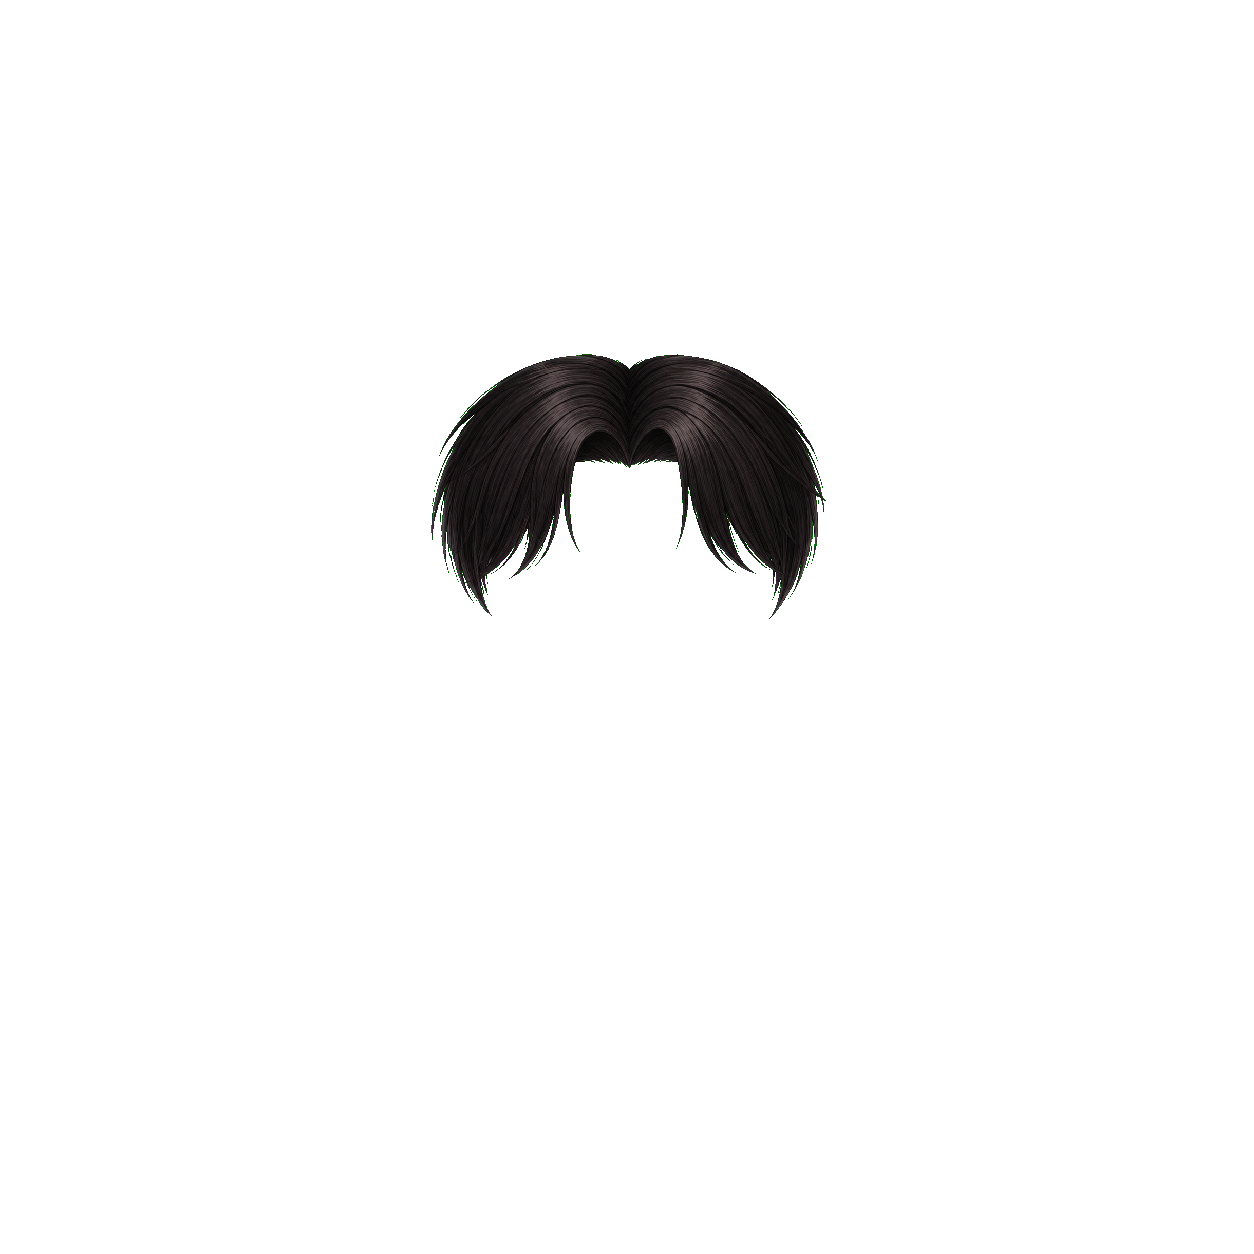
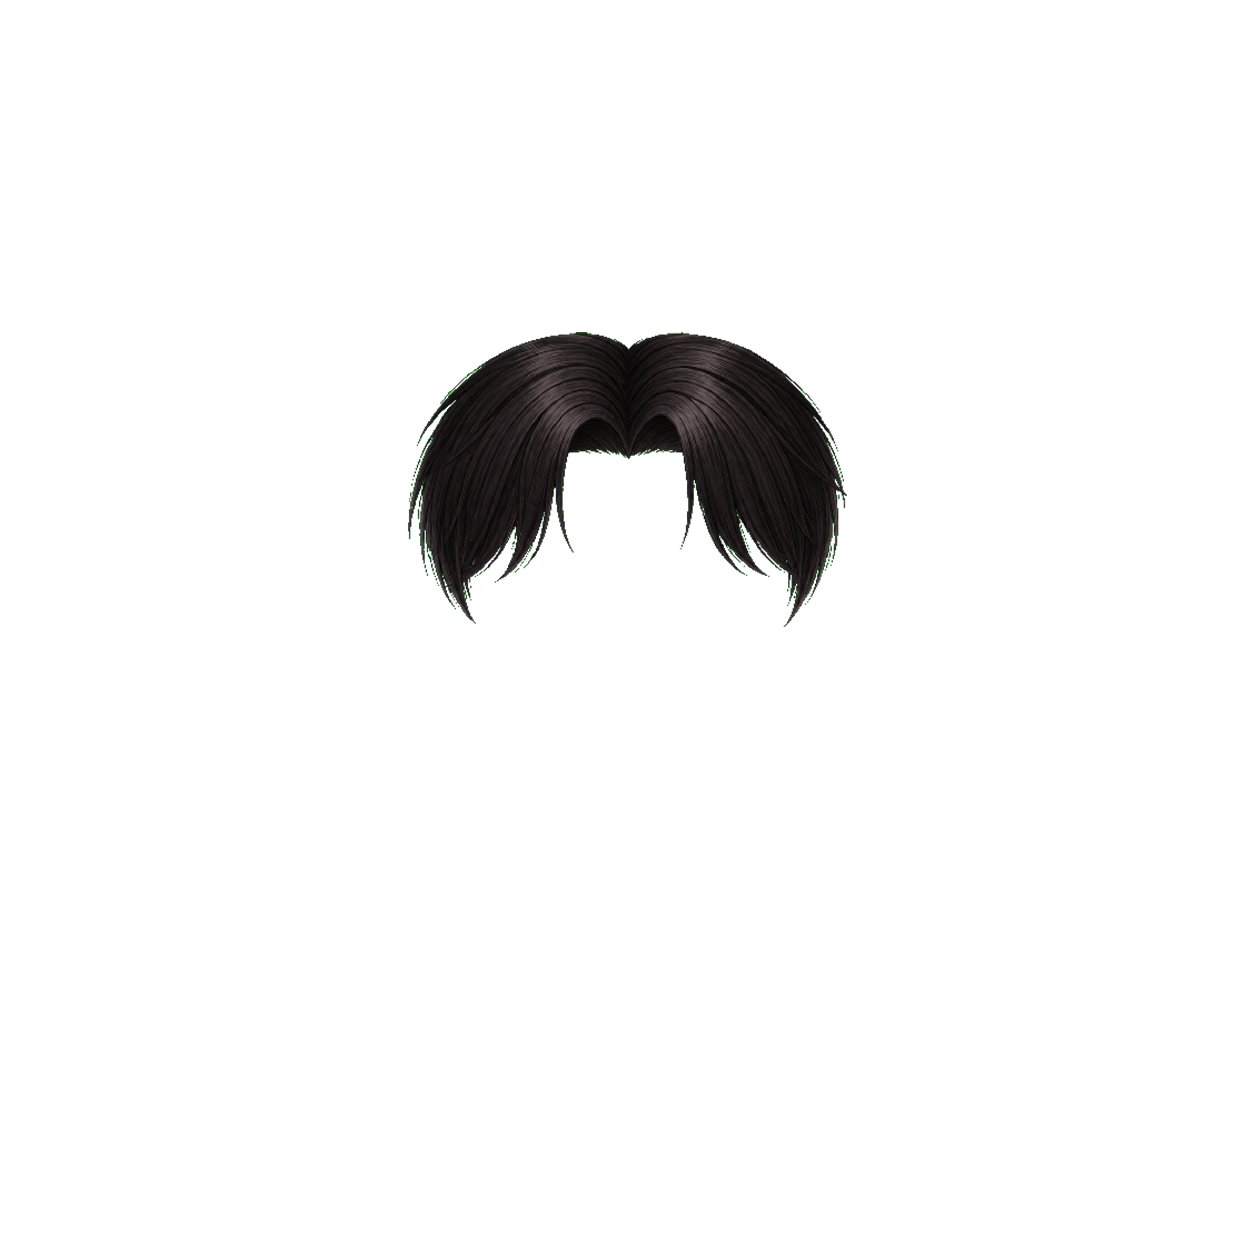
Sync famous portrait lab assets

Changed region(s): [[0.311, 0.2488, 0.6842, 0.4976]]

diff --git a/frontend/tools/famous-portrait-lab.js b/frontend/tools/famous-portrait-lab.js
@@ -1,59 +1,60 @@
 (function () {
   const layerBase = '../assets/art/famous-person/layers/';
+  const sharedLayout = window.FamousPortraitLayout || {};
   const defaultConfig = {
-    version: 2,
+    version: sharedLayout.version || 2,
     note: 'famous portrait v2 user-cut layer transform',
-    coordinateSize: 512,
-    global: { scale: 1, x: 0, y: 0 },
-    order: ['outfitBack', 'head', 'hairBase', 'bangs', 'outfitFront'],
+    coordinateSize: sharedLayout.coordinateSize || 512,
+    global: { scale: 1, x: 0, y: 0, ...(sharedLayout.global || {}) },
+    order: [...(sharedLayout.order || ['outfitBack', 'head', 'hairBase', 'bangs', 'outfitFront'])],
     layers: {
       hairBase: {
         label: '发型底层',
-        file: 'fp-layer-v2-art01-hairBase-bound-topknot-filled-01.png',
+        file: sharedLayout.layers?.hairBase?.file || 'fp-layer-v2-art01-hairBase-bound-topknot-filled-01.png',
         options: [
           { label: '束发底层', file: 'fp-layer-v2-art01-hairBase-bound-topknot-filled-01.png' },
         ],
-        scale: 0.19,
-        x: 135,
-        y: 20,
+        scale: sharedLayout.layers?.hairBase?.scale ?? 0.19,
+        x: sharedLayout.layers?.hairBase?.x ?? 135,
+        y: sharedLayout.layers?.hairBase?.y ?? 20,
         visible: true,
       },
       bangs: {
         label: '刘海',
-        file: 'fp-layer-v2-art01-bangs-bound-topknot-swept-01.png',
+        file: sharedLayout.layers?.bangs?.file || 'fp-layer-v2-art01-bangs-bound-topknot-swept-01.png',
         options: [
           { label: '原始刘海', file: 'fp-layer-v2-art01-bangs-bound-topknot-01.png' },
           { label: '短刘海', file: 'fp-layer-v2-art01-bangs-bound-topknot-short-01.png' },
           { label: '分缝刘海', file: 'fp-layer-v2-art01-bangs-bound-topknot-parted-01.png' },
           { label: '侧扫刘海', file: 'fp-layer-v2-art01-bangs-bound-topknot-swept-01.png' },
         ],
-        scale: 0.38,
-        x: 15,
-        y: -40,
+        scale: sharedLayout.layers?.bangs?.scale ?? 0.38,
+        x: sharedLayout.layers?.bangs?.x ?? 15,
+        y: sharedLayout.layers?.bangs?.y ?? -40,
         visible: true,
       },
       outfitBack: {
         label: '后层衣服',
-        file: 'fp-layer-v2-art01-outfitBack-guardian-01.png',
-        scale: 0.48,
-        x: 172,
-        y: 231,
+        file: sharedLayout.layers?.outfitBack?.file || 'fp-layer-v2-art01-outfitBack-guardian-01.png',
+        scale: sharedLayout.layers?.outfitBack?.scale ?? 0.48,
+        x: sharedLayout.layers?.outfitBack?.x ?? 172,
+        y: sharedLayout.layers?.outfitBack?.y ?? 231,
         visible: true,
       },
       head: {
         label: '头和身体',
-        file: 'fp-layer-v2-art01-head-base-01.png',
-        scale: 0.46,
-        x: 133,
-        y: 83,
+        file: sharedLayout.layers?.head?.file || 'fp-layer-v2-art01-head-base-01.png',
+        scale: sharedLayout.layers?.head?.scale ?? 0.46,
+        x: sharedLayout.layers?.head?.x ?? 133,
+        y: sharedLayout.layers?.head?.y ?? 83,
         visible: true,
       },
       outfitFront: {
         label: '前层衣服',
-        file: 'fp-layer-v2-art01-outfitFront-guardian-01.png',
-        scale: 0.48,
-        x: -5,
-        y: 249,
+        file: sharedLayout.layers?.outfitFront?.file || 'fp-layer-v2-art01-outfitFront-guardian-01.png',
+        scale: sharedLayout.layers?.outfitFront?.scale ?? 0.48,
+        x: sharedLayout.layers?.outfitFront?.x ?? -5,
+        y: sharedLayout.layers?.outfitFront?.y ?? 249,
         visible: true,
       },
     },
@@ -95,7 +96,7 @@
       const image = new Image();
       image.onload = () => resolve(image);
       image.onerror = () => reject(new Error(`Failed to load ${src}`));
-      image.src = src;
+      image.src = `${src}?v=${encodeURIComponent(sharedLayout.assetVersion || Date.now())}`;
     });
     imageCache.set(src, promise);
     return promise;

diff --git a/backend/tests/famous-person-service.test.js b/backend/tests/famous-person-service.test.js
@@ -41,7 +41,7 @@ test('seek creates a generated candidate with matching skill name and no level f
   assert.equal(result.candidate.name, '陆骁');
   assert.equal(result.candidate.skills[0].name, '血刃连袭');
   assert.equal(result.candidate.appearance.version, FamousPersonService.APPEARANCE_VERSION);
-  assert.equal(FamousPersonService.APPEARANCE_VERSION, 'famous-portrait-v2.1');
+  assert.equal(FamousPersonService.APPEARANCE_VERSION, 'famous-portrait-v2.2');
   assert.ok(result.candidate.appearance.layers.outfitBack.endsWith('fp-layer-v2-art01-outfitBack-guardian-01.png'));
   assert.ok(result.candidate.appearance.layers.head.endsWith('fp-layer-v2-art01-head-base-01.png'));
   assert.ok(result.candidate.appearance.layers.hairBase.endsWith('fp-layer-v2-art01-hairBase-bound-topknot-filled-01.png'));
@@ -50,6 +50,7 @@ test('seek creates a generated candidate with matching skill name and no level f
   assert.equal(Object.prototype.hasOwnProperty.call(result.candidate.appearance.layers, 'hair'), false);
   assert.equal(Object.prototype.hasOwnProperty.call(result.candidate.appearance.layers, 'backHair'), false);
   assert.equal(Object.prototype.hasOwnProperty.call(result.candidate.appearance.layers, 'frontHair'), false);
+  assert.equal(Object.prototype.hasOwnProperty.call(result.candidate.appearance.layers, 'accessory'), false);
   assert.equal(Object.prototype.hasOwnProperty.call(result.candidate, 'level'), false);
   assert.equal(result.candidate.source.type, 'seek');
   assert.equal(result.famousPersonState.candidateCount, 1);
@@ -158,6 +159,7 @@ test('normalization removes accepted duplicate candidates from legacy saves', ()
   assert.ok(normalized.famousPeople[0].appearance.layers.bangs);
   assert.ok(normalized.famousPeople[0].appearance.layers.outfitFront);
   assert.equal(Object.prototype.hasOwnProperty.call(normalized.famousPeople[0].appearance.layers, 'sideHair'), false);
+  assert.equal(Object.prototype.hasOwnProperty.call(normalized.famousPeople[0].appearance.layers, 'accessory'), false);
 });
 
 test('legacy portrait appearance is regenerated with the anchored complete hair set', () => {
@@ -175,6 +177,7 @@ test('legacy portrait appearance is regenerated with the anchored complete hair 
         body: 'assets/art/famous-person/layers/fp-layer-body-skin-01.png',
         outfit: 'assets/art/famous-person/layers/fp-layer-outfit-guardian-01.png',
         frontHair: 'assets/art/famous-person/layers/fp-layer-frontHair-short-01.png',
+        accessory: 'assets/art/famous-person/layers/fp-layer-accessory-scar-01.png',
       },
     },
   }];
@@ -192,6 +195,7 @@ test('legacy portrait appearance is regenerated with the anchored complete hair 
   assert.equal(Object.prototype.hasOwnProperty.call(layers, 'backHair'), false);
   assert.equal(Object.prototype.hasOwnProperty.call(layers, 'sideHair'), false);
   assert.equal(Object.prototype.hasOwnProperty.call(layers, 'frontHair'), false);
+  assert.equal(Object.prototype.hasOwnProperty.call(layers, 'accessory'), false);
   assert.equal(Object.prototype.hasOwnProperty.call(layers, 'bangs'), true);
 });
 
@@ -209,6 +213,7 @@ test('unversioned portrait appearance is regenerated away from deleted outfit as
         body: 'assets/art/famous-person/layers/fp-layer-body-skin-01.png',
         outfit: 'assets/art/famous-person/layers/fp-layer-outfit-guardian-01.png',
         frontHair: 'assets/art/famous-person/layers/fp-layer-frontHair-short-02.png',
+        accessory: 'assets/art/famous-person/layers/fp-layer-accessory-scar-01.png',
       },
     },
   }];
@@ -219,4 +224,35 @@ test('unversioned portrait appearance is regenerated away from deleted outfit as
   assert.equal(normalized.famousPeople[0].appearance.version, FamousPersonService.APPEARANCE_VERSION);
   assert.match(layers.outfitFront, /fp-layer-v2-art01-outfitFront-guardian-01\.png$/);
   assert.doesNotMatch(layers.outfitFront, /fp-layer-outfit-guardian-01\.png$/);
+  assert.equal(Object.prototype.hasOwnProperty.call(layers, 'accessory'), false);
+});
+
+test('current portrait normalization keeps only active five layers and drops accessories', () => {
+  const state = GameStateService.createInitialGameState('fp-current-accessory');
+  state.currentEra = 3;
+  state.famousPeople = [{
+    id: 'fp_current_accessory',
+    name: '绉︽壙',
+    title: '鍨掗棬瀹堝皢',
+    source: { type: 'seek', seed: 'current:accessory' },
+    archetype: 'guardian',
+    appearance: {
+      version: FamousPersonService.APPEARANCE_VERSION,
+      seed: 'current:accessory',
+      palette: 'military_red',
+      layers: {
+        outfitBack: 'assets/art/famous-person/layers/fp-layer-v2-art01-outfitBack-guardian-01.png',
+        head: 'assets/art/famous-person/layers/fp-layer-v2-art01-head-base-01.png',
+        hairBase: 'assets/art/famous-person/layers/fp-layer-v2-art01-hairBase-bound-topknot-filled-01.png',
+        bangs: 'assets/art/famous-person/layers/fp-layer-v2-art01-bangs-bound-topknot-swept-01.png',
+        outfitFront: 'assets/art/famous-person/layers/fp-layer-v2-art01-outfitFront-guardian-01.png',
+        accessory: 'assets/art/famous-person/layers/fp-layer-accessory-scar-01.png',
+      },
+    },
+  }];
+
+  const normalized = GameStateService.normalizeState(state);
+  const layers = normalized.famousPeople[0].appearance.layers;
+
+  assert.deepEqual(Object.keys(layers), ['outfitBack', 'head', 'hairBase', 'bangs', 'outfitFront']);
 });

diff --git a/frontend/tests/shared-canvas-renderer.test.js b/frontend/tests/shared-canvas-renderer.test.js
@@ -5,6 +5,7 @@ const path = require('path');
 
 const CanvasGameRenderer = require('../js/platform/CanvasGameRenderer');
 const H5CanvasGameRenderer = require('../js/platform/H5CanvasGameRenderer');
+const MiniGameCanvasRenderer = require('../js/platform/MiniGameCanvasRenderer');
 const famousManifest = require('../assets/art/famous-person/layers/fp-layer-v2-manifest.json');
 
 function makeCtx() {
@@ -159,12 +160,41 @@ test('CanvasGameRenderer preloads famous person portrait layers', () => {
   assert.ok(!paths.includes('assets/art/famous-person/layers/fp-layer-body-skin-01.png'));
 });
 
+test('CanvasGameRenderer cache-busts famous person portrait layer image requests', async () => {
+  const { ctx } = makeCtx();
+  const renderer = new CanvasGameRenderer({ ctx, width: 390, height: 844, pixelRatio: 1 });
+  const createdImages = [];
+  renderer.createImage = () => {
+    const image = { src: '', onload: null, onerror: null };
+    createdImages.push(image);
+    return image;
+  };
+
+  const pending = renderer.preloadAssets([
+    'assets/art/famous-person/layers/fp-layer-v2-art01-bangs-bound-topknot-swept-01.png',
+    'assets/art/icon-food-cutout.webp',
+  ]);
+
+  assert.match(createdImages[0].src, /fp-layer-v2-art01-bangs-bound-topknot-swept-01\.png\?v=famous-portrait-v2\.2-art01-usercut-20260528$/);
+  assert.equal(createdImages[1].src, 'assets/art/icon-food-cutout.webp');
+  createdImages.forEach((image) => image.onload?.());
+  await pending;
+});
+
+test('MiniGameCanvasRenderer keeps bundled asset paths unchanged', () => {
+  assert.equal(
+    MiniGameCanvasRenderer.getAssetRequestPath('assets/art/famous-person/layers/fp-layer-v2-art01-bangs-bound-topknot-swept-01.png'),
+    'assets/art/famous-person/layers/fp-layer-v2-art01-bangs-bound-topknot-swept-01.png',
+  );
+});
+
 test('CanvasGameRenderer applies the same famous portrait layer layout as the lab', () => {
   const { ctx, calls } = makeCtx();
   const renderer = new CanvasGameRenderer({ ctx, width: 390, height: 844, pixelRatio: 1 });
   const layout = CanvasGameRenderer.getFamousPortraitLayerLayout();
   assert.equal(layout.version, 2);
   assert.equal(layout.mode, 'cropped');
+  assert.equal(layout.assetVersion, 'famous-portrait-v2.2-art01-usercut-20260528');
   assert.deepEqual(layout.order, ['outfitBack', 'head', 'hairBase', 'bangs', 'outfitFront']);
   assert.deepEqual(layout.layers.head.base, {
     x: famousManifest.layers['fp-layer-v2-art01-head-base-01.png'].x,
@@ -997,7 +1027,7 @@ test('CanvasGameRenderer renders homepage feature grid and famous person panel',
         attributes: { command: 70, force: 82, strategy: 40, governance: 28, craft: 22, charisma: 55 },
         skills: [{ name: '血刃连袭', effects: [{ key: 'lifesteal' }, { key: 'combo' }] }],
         appearance: {
-          version: 'famous-portrait-v2.1',
+          version: 'famous-portrait-v2.2',
           layers: {
             outfitBack: 'assets/art/famous-person/layers/fp-layer-v2-art01-outfitBack-guardian-01.png',
             head: 'assets/art/famous-person/layers/fp-layer-v2-art01-head-base-01.png',

diff --git a/frontend/js/platform/CanvasGameRenderer.js b/frontend/js/platform/CanvasGameRenderer.js
@@ -41,6 +41,16 @@
       return sharedFamousPortraitLayout || {};
     }
 
+    static getAssetRequestPath(assetPath) {
+      if (!assetPath) return assetPath;
+      const layout = this.getFamousPortraitLayerLayout();
+      const assetVersion = layout.assetVersion;
+      if (!assetVersion || typeof assetPath !== 'string') return assetPath;
+      if (!assetPath.startsWith('assets/art/famous-person/layers/')) return assetPath;
+      const separator = assetPath.includes('?') ? '&' : '?';
+      return `${assetPath}${separator}v=${encodeURIComponent(assetVersion)}`;
+    }
+
     static getPreloadAssetPaths() {
       return [
         'assets/art/civilization-bg.webp',
@@ -193,8 +203,9 @@
           };
           image.onload = (event) => complete('loaded', previousOnload, event);
           image.onerror = (event) => complete('error', previousOnerror, event);
-          if (!cached) image.src = assetPath;
-          else if (!image.src) image.src = assetPath;
+          const requestPath = this.constructor.getAssetRequestPath(assetPath);
+          if (!cached) image.src = requestPath;
+          else if (!image.src) image.src = requestPath;
         });
       });
     }
@@ -219,7 +230,7 @@
       image.onerror = () => {
         record.status = 'error';
       };
-      image.src = assetPath;
+      image.src = this.constructor.getAssetRequestPath(assetPath);
       return null;
     }
 

diff --git a/frontend/tests/famous-portrait-lab.test.js b/frontend/tests/famous-portrait-lab.test.js
@@ -89,10 +89,12 @@ test('famous portrait v2 lab exposes user-cut layer controls', () => {
   assert.match(html, /id="exportData"/);
   assert.match(html, /直接使用你切好的 PNG 原图/);
   assert.match(html, /<canvas id="stage" width="1120" height="900"><\/canvas>/);
-  assert.match(html, /<script src="famous-portrait-lab\.js\?v=0\.1\.142-hairbase-fill"><\/script>/);
+  assert.match(html, /<script src="\.\.\/js\/config\/FamousPortraitLayout\.js\?v=famous-portrait-v2\.2-art01-usercut-20260528"><\/script>/);
+  assert.match(html, /<script src="famous-portrait-lab\.js\?v=0\.1\.143-shared-layout"><\/script>/);
 
   assert.match(script, /fp-layer-v2-manifest\.json/);
-  assert.match(script, /order: \['outfitBack', 'head', 'hairBase', 'bangs', 'outfitFront'\]/);
+  assert.match(script, /sharedLayout = window\.FamousPortraitLayout/);
+  assert.match(script, /sharedLayout\.order/);
   assert.match(script, /fp-layer-v2-art01-head-base-01\.png/);
   assert.match(script, /fp-layer-v2-art01-hairBase-bound-topknot-filled-01\.png/);
   assert.match(script, /fp-layer-v2-art01-bangs-bound-topknot-01\.png/);
@@ -101,10 +103,11 @@ test('famous portrait v2 lab exposes user-cut layer controls', () => {
   assert.match(script, /fp-layer-v2-art01-bangs-bound-topknot-swept-01\.png/);
   assert.match(script, /fp-layer-v2-art01-outfitBack-guardian-01\.png/);
   assert.match(script, /fp-layer-v2-art01-outfitFront-guardian-01\.png/);
-  assert.match(script, /file:\s*'fp-layer-v2-art01-bangs-bound-topknot-swept-01\.png'/);
-  assert.match(script, /scale:\s*0\.38/);
-  assert.match(script, /x:\s*15/);
-  assert.match(script, /y:\s*-40/);
+  assert.match(script, /file:\s*sharedLayout\.layers\?\.bangs\?\.file \|\| 'fp-layer-v2-art01-bangs-bound-topknot-swept-01\.png'/);
+  assert.match(script, /scale:\s*sharedLayout\.layers\?\.bangs\?\.scale \?\? 0\.38/);
+  assert.match(script, /x:\s*sharedLayout\.layers\?\.bangs\?\.x \?\? 15/);
+  assert.match(script, /y:\s*sharedLayout\.layers\?\.bangs\?\.y \?\? -40/);
+  assert.match(script, /sharedLayout\.assetVersion/);
   assert.match(script, /data-control="scale" type="range" min="0" max="200"/);
   assert.match(script, /data-control="file"/);
   assert.match(script, /function drawPortrait\(x, y, size, options = \{\}\)/);

diff --git a/backend/services/FamousPersonService.js b/backend/services/FamousPersonService.js
@@ -1,7 +1,7 @@
 const CityService = require('./CityService');
 
 const GENERATOR_VERSION = 'famous-person-v0.1';
-const APPEARANCE_VERSION = 'famous-portrait-v2.1';
+const APPEARANCE_VERSION = 'famous-portrait-v2.2';
 const MIN_SEEK_ERA = 3;
 const MAX_CANDIDATES = 3;
 const PORTRAIT_LAYER_BASE = 'assets/art/famous-person/layers/';
@@ -249,7 +249,8 @@ function normalizeAppearance(raw = {}, archetype, fallbackSeed) {
   const rawLayers = source.layers && typeof source.layers === 'object' ? source.layers : {};
   const generated = createAppearance(archetype, source.seed || fallbackSeed);
   if (source.version !== APPEARANCE_VERSION) return generated;
-  const layers = ['outfitBack', 'head', 'hairBase', 'bangs', 'outfitFront']
+  const allowedLayerKeys = ['outfitBack', 'head', 'hairBase', 'bangs', 'outfitFront'];
+  const layers = allowedLayerKeys
     .reduce((result, key) => {
       const value = sanitizeText(rawLayers[key]);
       if (value) result[key] = value;

diff --git a/frontend/index.html b/frontend/index.html
@@ -16,8 +16,8 @@
     <script src="js/state/GameStateManager.js?v=guidebook-planning-v1"></script>
     <script src="js/state/UIStatePresenter.js?v=resource-buildings-v1"></script>
     <script src="js/api/GameAPI.js?v=version-cache-bust-v2"></script>
-    <script src="js/config/FamousPortraitLayout.js?v=famous-portrait-v2-art01"></script>
-    <script src="js/platform/CanvasGameRenderer.js?v=famous-portrait-v2-art01"></script>
+    <script src="js/config/FamousPortraitLayout.js?v=famous-portrait-v2.2-art01-usercut-20260528"></script>
+    <script src="js/platform/CanvasGameRenderer.js?v=famous-portrait-v2.2-art01-usercut-20260528"></script>
     <script src="js/platform/MiniGameCanvasRenderer.js?v=minigame-renderer-v2"></script>
     <script src="js/platform/H5CanvasGameRenderer.js?v=h5-game-renderer-v1"></script>
     <script src="js/platform/CanvasActionController.js?v=tech-tree-zoom-gestures-v1"></script>

diff --git a/frontend/js/platform/MiniGameCanvasRenderer.js b/frontend/js/platform/MiniGameCanvasRenderer.js
@@ -42,6 +42,10 @@
       }
       return null;
     }
+
+    static getAssetRequestPath(assetPath) {
+      return assetPath;
+    }
   }
 
   global.MiniGameCanvasRenderer = MiniGameCanvasRenderer;

diff --git a/frontend/tools/famous-portrait-lab.html b/frontend/tools/famous-portrait-lab.html
@@ -187,6 +187,7 @@
       <canvas id="stage" width="1120" height="900"></canvas>
     </main>
   </div>
-  <script src="famous-portrait-lab.js?v=0.1.142-hairbase-fill"></script>
+  <script src="../js/config/FamousPortraitLayout.js?v=famous-portrait-v2.2-art01-usercut-20260528"></script>
+  <script src="famous-portrait-lab.js?v=0.1.143-shared-layout"></script>
 </body>
 </html>

diff --git a/frontend/tests/h5-canvas-runtime.test.js b/frontend/tests/h5-canvas-runtime.test.js
@@ -2722,7 +2722,7 @@ test('Browser entry loads Canvas game shell before app as the authoritative UI s
   const actionControllerJs = fs.readFileSync(path.join(projectRoot, 'frontend', 'js', 'platform', 'CanvasActionController.js'), 'utf8');
 
   assert.match(html, /js\/platform\/H5CanvasRuntime\.js\?v=tech-tree-zoom-gestures-v1/);
-  assert.match(html, /js\/config\/FamousPortraitLayout\.js\?v=famous-portrait-v2-art01[\s\S]*js\/platform\/CanvasGameRenderer\.js\?v=famous-portrait-v2-art01/);
+  assert.match(html, /js\/config\/FamousPortraitLayout\.js\?v=famous-portrait-v2\.2-art01-usercut-20260528[\s\S]*js\/platform\/CanvasGameRenderer\.js\?v=famous-portrait-v2\.2-art01-usercut-20260528/);
   assert.match(html, /js\/platform\/CanvasActionController\.js\?v=tech-tree-zoom-gestures-v1[\s\S]*js\/platform\/CanvasGameShell\.js\?v=tech-tree-zoom-gestures-v1/);
   assert.match(html, /js\/platform\/CanvasGameShell\.js\?v=tech-tree-zoom-gestures-v1[\s\S]*app\.js\?v=h5-bootstrap-explicit-doc-v3/);
   assert.match(html, /<div id="app" aria-hidden="true"><\/div>/);

diff --git a/frontend/tests/resource-art.test.js b/frontend/tests/resource-art.test.js
@@ -100,7 +100,7 @@ test('world scouting uses dedicated site icons and canvas military controls', ()
   assert.doesNotMatch(html, /floating-text\.js|id="fxLayer"/);
   assert.doesNotMatch(css, /fx-layer|floating-text|particleFly|screen-flash|floatUp/);
   assert.match(html, /UIStatePresenter\.js\?v=resource-buildings-v1/);
-  assert.match(html, /FamousPortraitLayout\.js\?v=famous-portrait-v2-art01/);
+  assert.match(html, /FamousPortraitLayout\.js\?v=famous-portrait-v2\.2-art01-usercut-20260528/);
   assert.doesNotMatch(html, /BuildingUIRenderer|BuildingActionAdapter|buildingGrid|building-panel|building-card/);
   assert.doesNotMatch(html, /EventUIRenderer\.js/);
   assert.doesNotMatch(html, /RuntimeLogAdapter\.js|LogModalAdapter\.js/);

diff --git a/frontend/tests/ui-state-presenter.test.js b/frontend/tests/ui-state-presenter.test.js
@@ -174,7 +174,7 @@ test('famous person view state maps candidates and joined people into panel card
         attributes: { command: 70, force: 82, strategy: 40, governance: 28, craft: 22, charisma: 55 },
         skills: [{ name: '血刃连袭', effects: [{ key: 'lifesteal' }, { key: 'combo' }] }],
         appearance: {
-          version: 'famous-portrait-v2.1',
+          version: 'famous-portrait-v2.2',
           layers: {
             outfitBack: 'assets/art/famous-person/layers/fp-layer-v2-art01-outfitBack-guardian-01.png',
             head: 'assets/art/famous-person/layers/fp-layer-v2-art01-head-base-01.png',